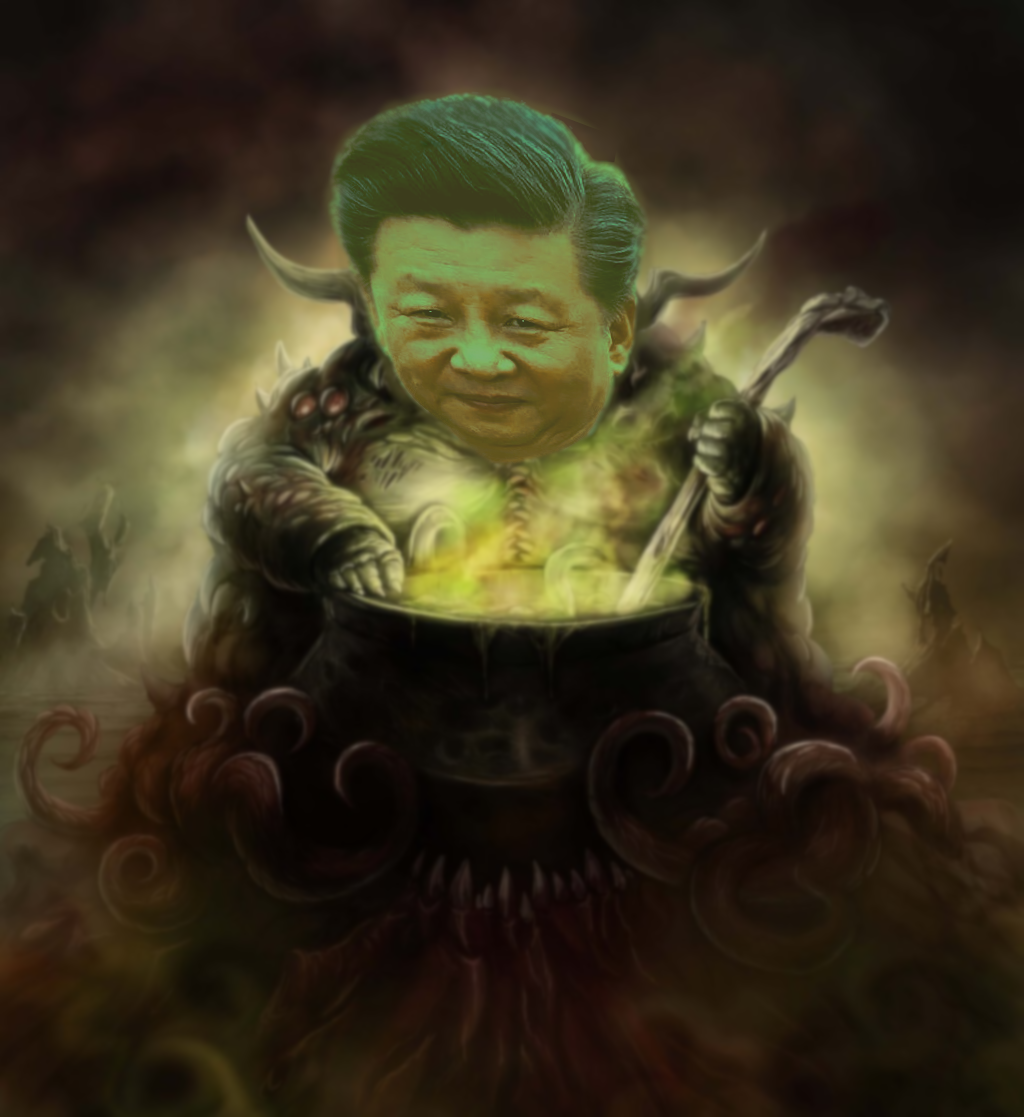
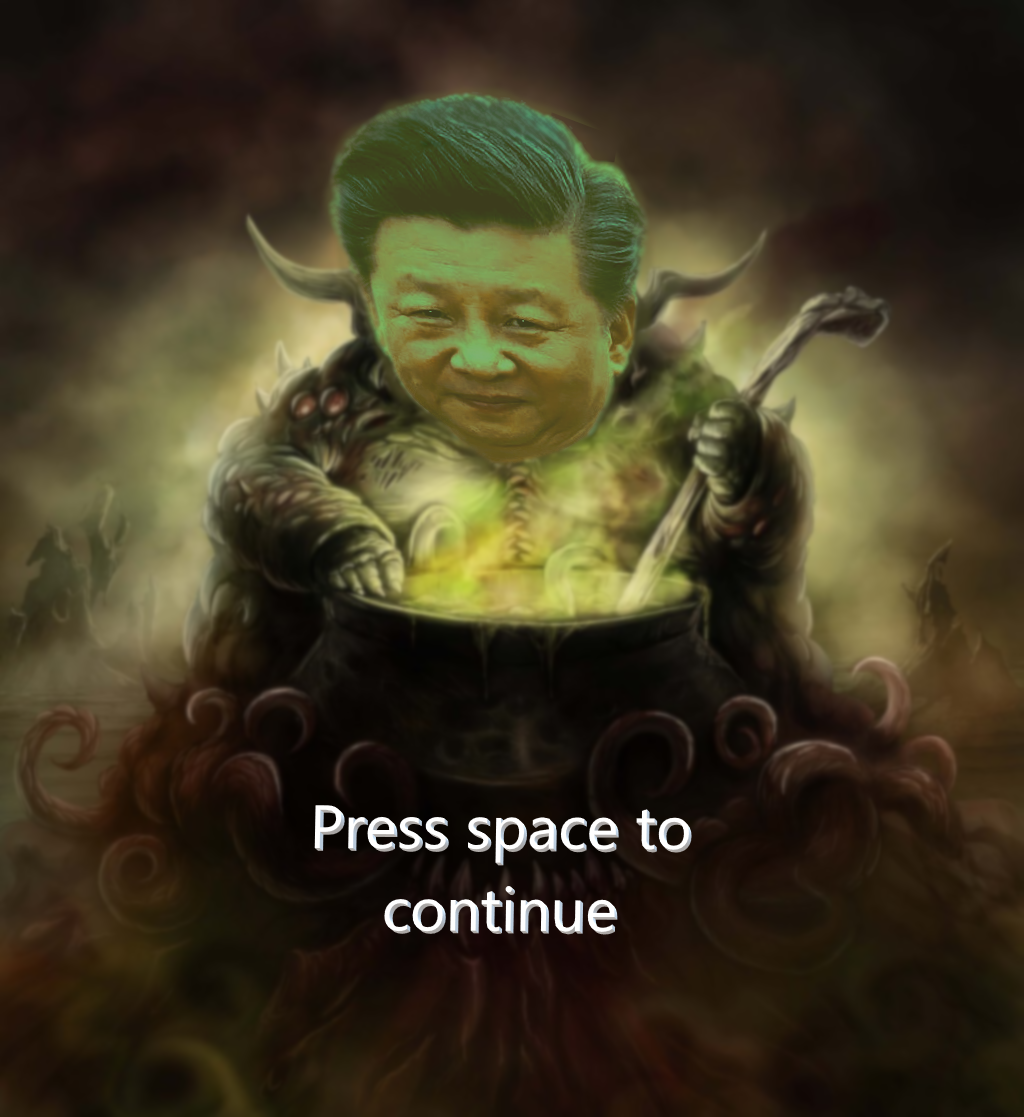
Final Commit 2: electric boogaloo added death screen and better startup screen

Changed region(s): [[0.2812, 0.7001, 0.6875, 0.8523]]

diff --git a/Centipede/GameStates/GameOverState.cs b/Centipede/GameStates/GameOverState.cs
@@ -13,6 +13,11 @@ namespace Pacman.GameStates
     {
         public GameOverState()
         {
+            SpriteGameObject gameOverScreen = new SpriteGameObject("gameOverScreen");
+
+            this.Add(gameOverScreen);
+
+            gameOverScreen.Origin = new Vector2(0, 0);
         }
 
         public override void HandleInput(InputHelper inputHelper)
